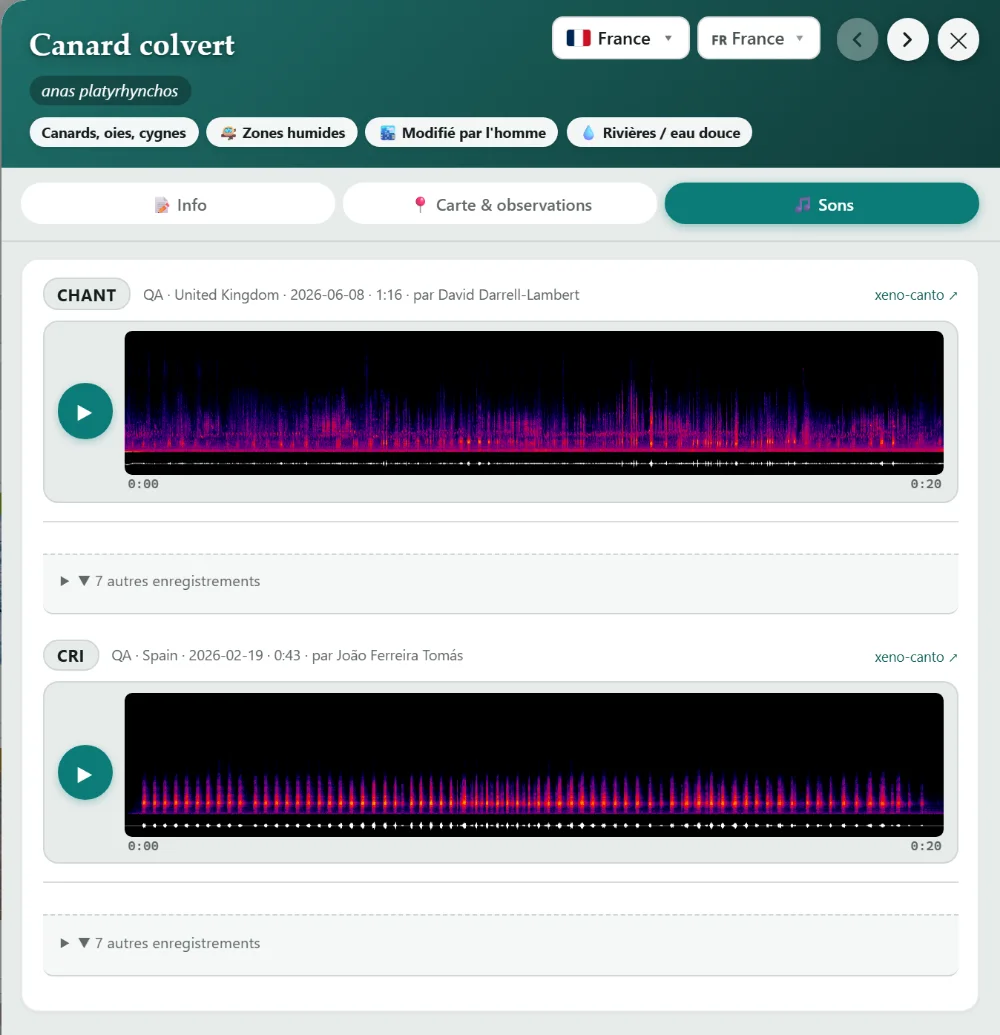
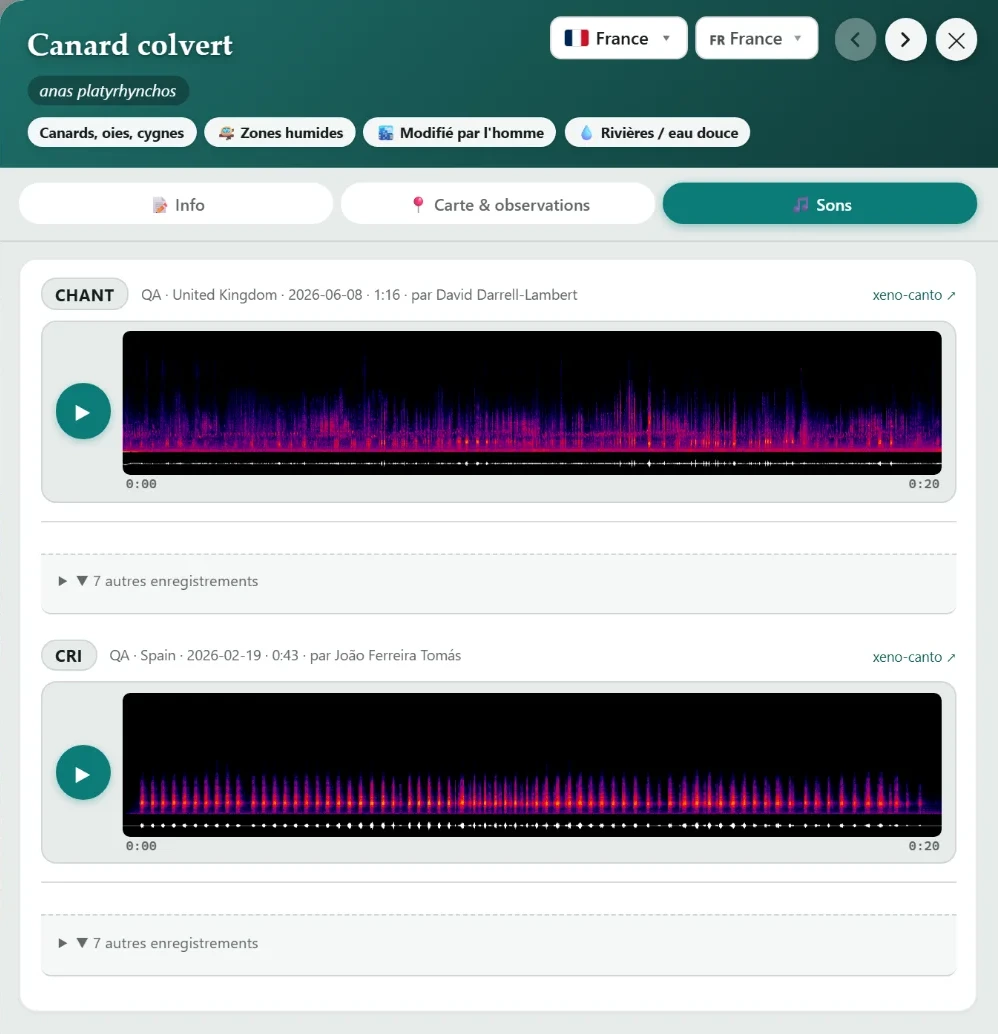
Page L'Ornithèque : fiche et sons plus petits, zone tracée au lieu du quiz
Fiche et sons rognés des deux colonnes grises du fond (bord gauche) et réduits
à 760 px pour la paire. Quiz retiré. Le paragraphe « Partager ses observations »
devient une capture de la carte : une zone tracée sur la Camargue et les espèces
vues ces 14 derniers jours (capture-zone-tracee.mjs, carte calée au pixel entier).

diff --git a/ornitheque.html b/ornitheque.html
@@ -106,28 +106,21 @@
       <figcaption>Le Birdydex&nbsp;: les 466 espèces régulières en France, rangées par famille, en couleur celles déjà vues. Chaque vignette ouvre la fiche de l’espèce.<br><a class="zoom" href="projet-ornitheque-birdydex.webp" target="_blank" rel="noopener" aria-label="Pleine résolution, nouvel onglet : Birdydex, les espèces régulières en France rangées par famille">Pleine résolution ↗</a></figcaption>
     </figure>
 
-    <div class="plates--pair">
+    <div class="plates--pair plates--moyen">
       <figure class="plate">
-        <a href="projet-ornitheque-fiche.webp" target="_blank" rel="noopener"><img width="1000" height="1018" loading="lazy" src="projet-ornitheque-fiche.webp" alt="Fiche espèce du Canard colvert, onglet Info"></a>
+        <a href="projet-ornitheque-fiche.webp" target="_blank" rel="noopener"><img width="998" height="1018" loading="lazy" src="projet-ornitheque-fiche.webp" alt="Fiche espèce du Canard colvert, onglet Info"></a>
         <figcaption>La fiche&nbsp;: photo, milieux de vie, description.<br><a class="zoom" href="projet-ornitheque-fiche.webp" target="_blank" rel="noopener" aria-label="Pleine résolution, nouvel onglet : Fiche espèce du Canard colvert, onglet Info">Pleine résolution ↗</a></figcaption>
       </figure>
       <figure class="plate">
-        <a href="projet-ornitheque-chants.webp" target="_blank" rel="noopener"><img width="1000" height="1035" loading="lazy" src="projet-ornitheque-chants.webp" alt="Fiche espèce, onglet Sons avec sonagrammes"></a>
+        <a href="projet-ornitheque-chants.webp" target="_blank" rel="noopener"><img width="998" height="1034" loading="lazy" src="projet-ornitheque-chants.webp" alt="Fiche espèce, onglet Sons avec sonagrammes"></a>
         <figcaption>Ses chants, enregistrements de <a href="https://xeno-canto.org" target="_blank" rel="noopener">xeno-canto</a> avec leur sonagramme, l’image du son.<br><a class="zoom" href="projet-ornitheque-chants.webp" target="_blank" rel="noopener" aria-label="Pleine résolution, nouvel onglet : Fiche espèce, onglet Sons avec sonagrammes">Pleine résolution ↗</a></figcaption>
       </figure>
     </div>
 
-    <figure class="plate plate--cote plate--miroir">
-      <a href="projet-ornitheque-quiz.webp" target="_blank" rel="noopener"><img width="1000" height="671" loading="lazy" src="projet-ornitheque-quiz.webp" alt="Quiz de reconnaissance des chants, une question en cours"></a>
-      <figcaption>Le quiz de chants&nbsp;: un enregistrement, quatre réponses, pour apprendre à reconnaître une espèce à l’oreille.<br><a class="zoom" href="projet-ornitheque-quiz.webp" target="_blank" rel="noopener" aria-label="Pleine résolution, nouvel onglet : Quiz de reconnaissance des chants, une question en cours">Pleine résolution ↗</a></figcaption>
+    <figure class="plate">
+      <a href="projet-ornitheque-zone.webp" target="_blank" rel="noopener"><img width="1600" height="1404" loading="lazy" src="projet-ornitheque-zone.webp" alt="Carte des observations récentes, une zone tracée sur la Camargue et la liste des espèces vues"></a>
+      <figcaption>Préparer une sortie&nbsp;: on trace une zone sur la carte, et le site liste ce qui y a été vu ces 14 derniers jours. Observations eBird réelles.<br><a class="zoom" href="projet-ornitheque-zone.webp" target="_blank" rel="noopener" aria-label="Pleine résolution, nouvel onglet : Carte des observations récentes, une zone tracée sur la Camargue et la liste des espèces vues">Pleine résolution ↗</a></figcaption>
     </figure>
-
-    <div class="releve">
-      <div>
-        <p class="releve__k">Partager ses observations, préparer une sortie</p>
-        <p class="releve__v">Le fil annonce au groupe chaque nouvelle espèce vue par l’un des membres, et chacun peut y réagir ou commenter. Pour préparer une sortie, la carte montre ce qui a été observé ces derniers jours dans une zone tracée à main levée, et le tchat sert à s’organiser.</p>
-      </div>
-    </div>
 
   </section>
 

diff --git a/style.css b/style.css
@@ -351,6 +351,8 @@ img{display:block;max-width:100%;height:auto;}
 .plates--pair{display:grid;grid-template-columns:1fr 1fr;gap:26px 24px;margin:26px 0 0;}
 .plates--pair .plate{margin:0;}
 .plates--petit{max-width:560px;}
+/* Paire de captures plus petites que la colonne (fiche et sons de L'Ornithèque) */
+.plates--moyen{max-width:760px;}
 
 /* Une planche a cote de sa legende. Pour une figure haute comme la matrice de
    correlation, la demi-largeur la fait tenir dans un ecran d'un seul coup, et
